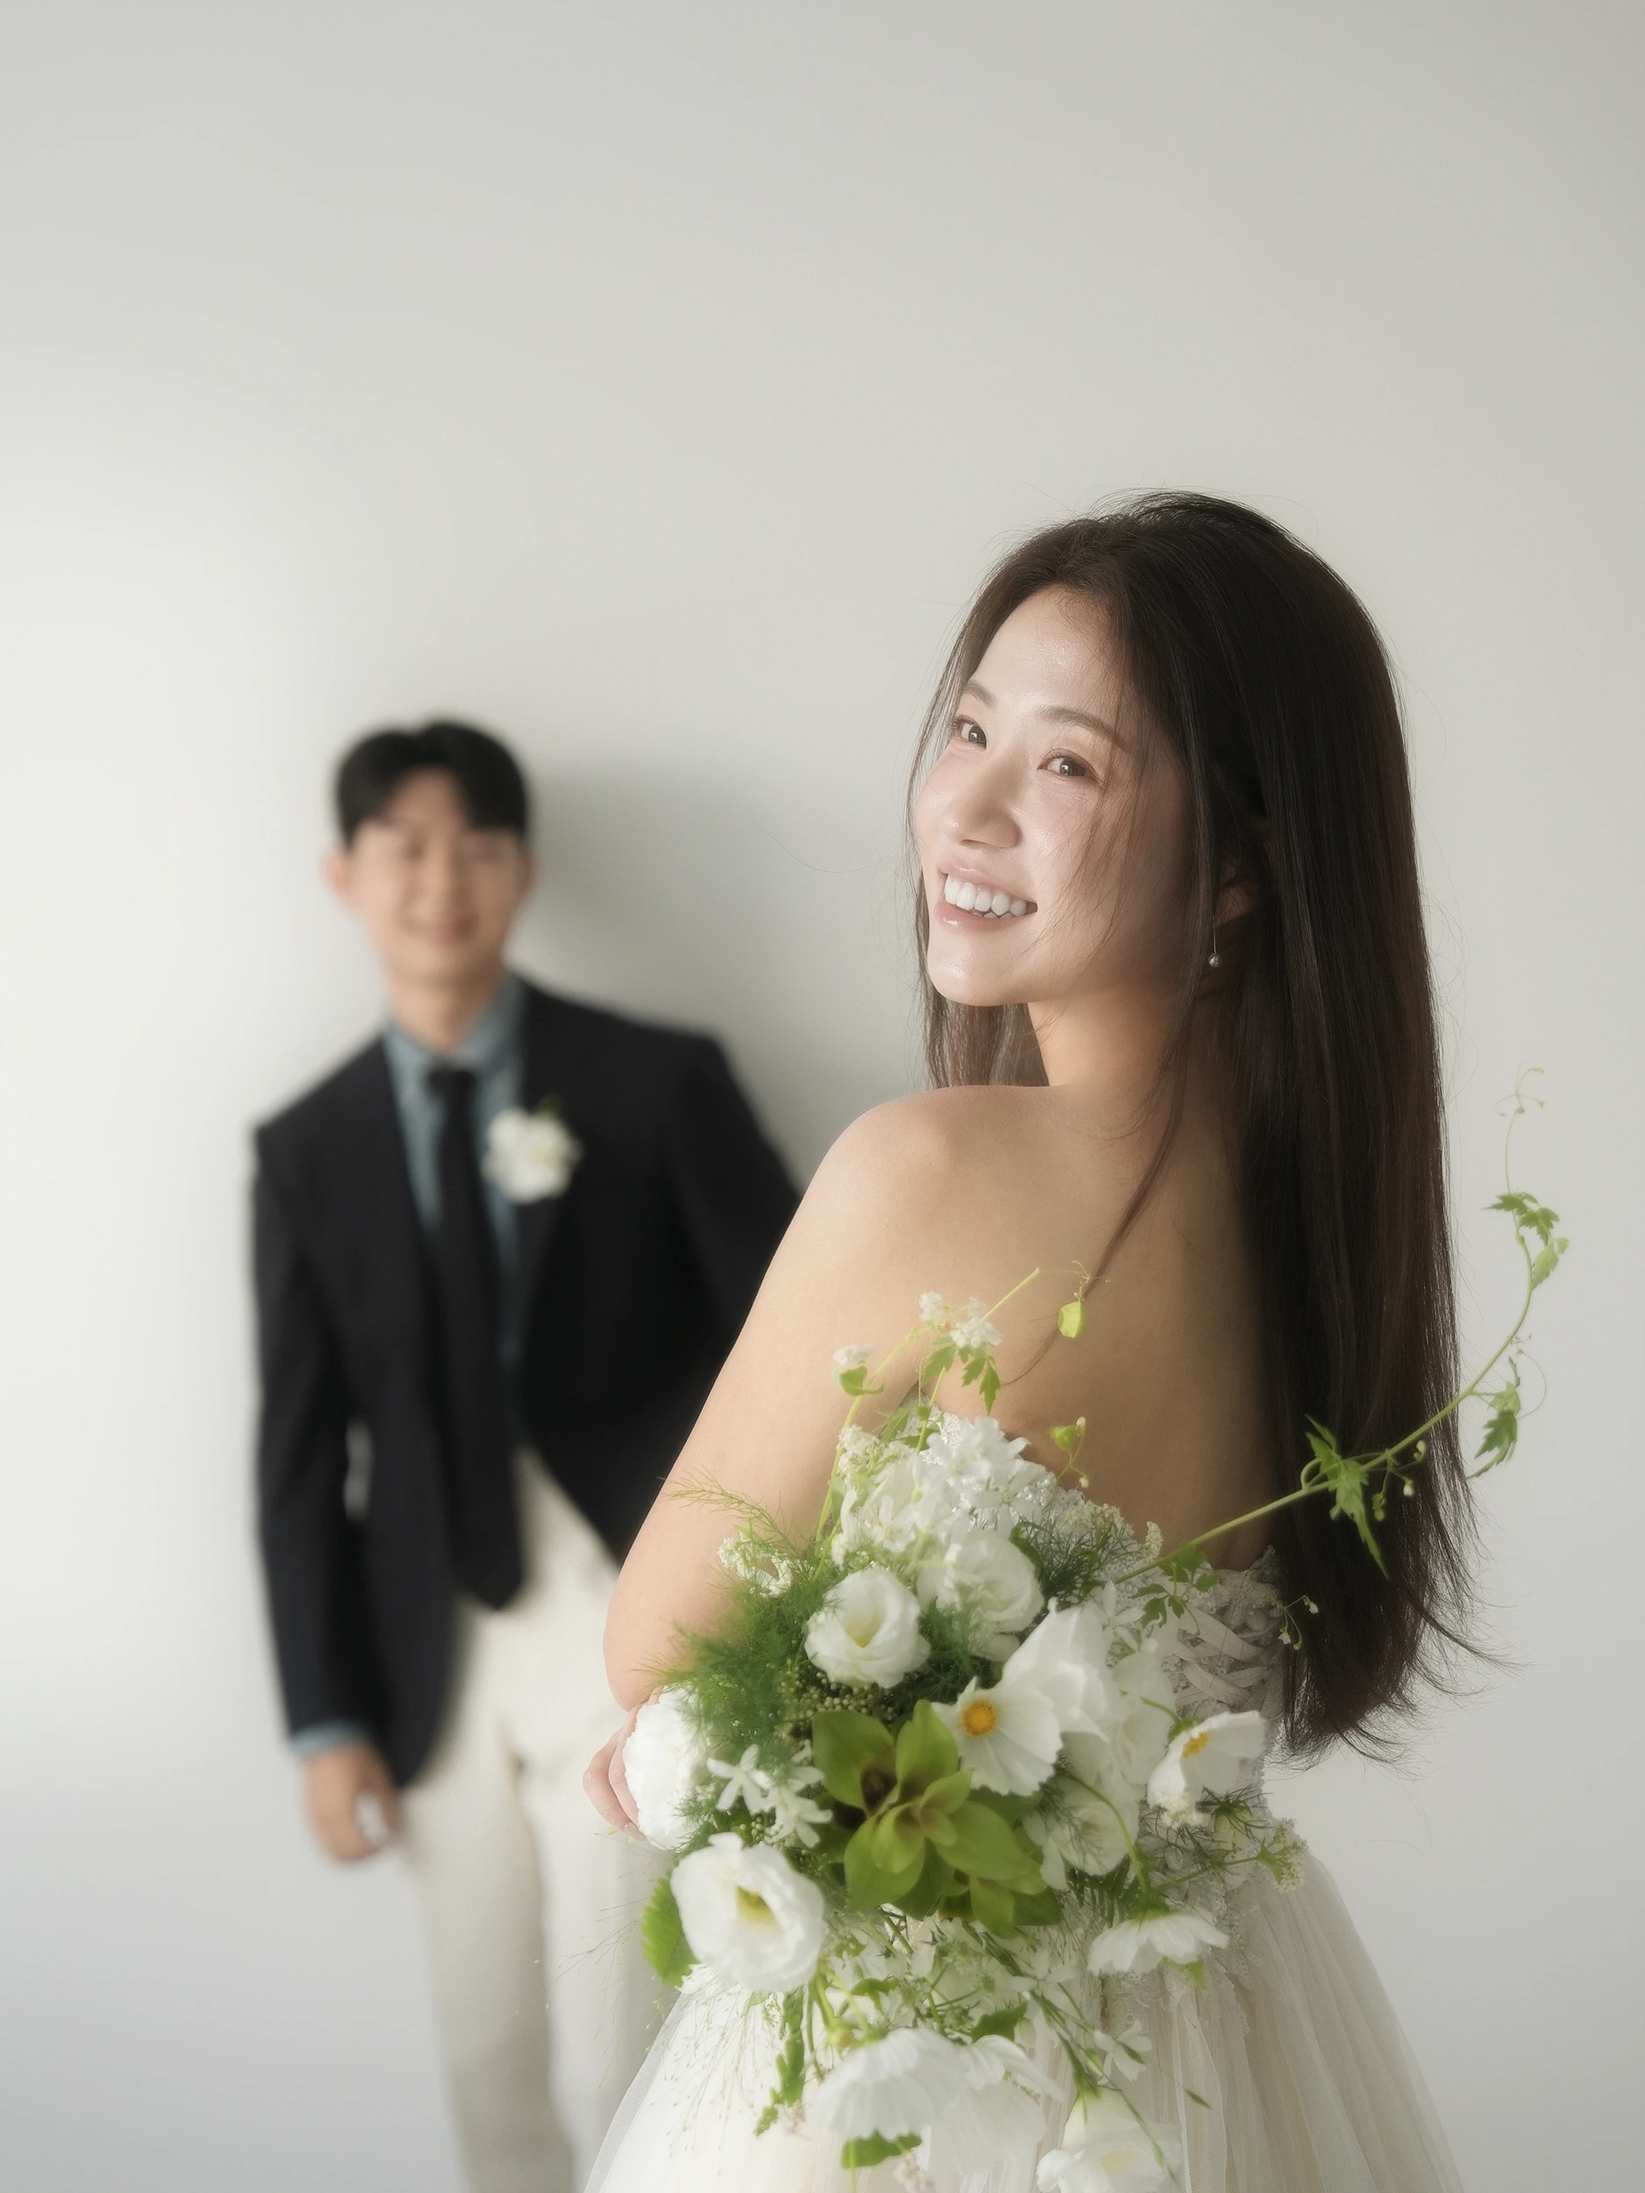
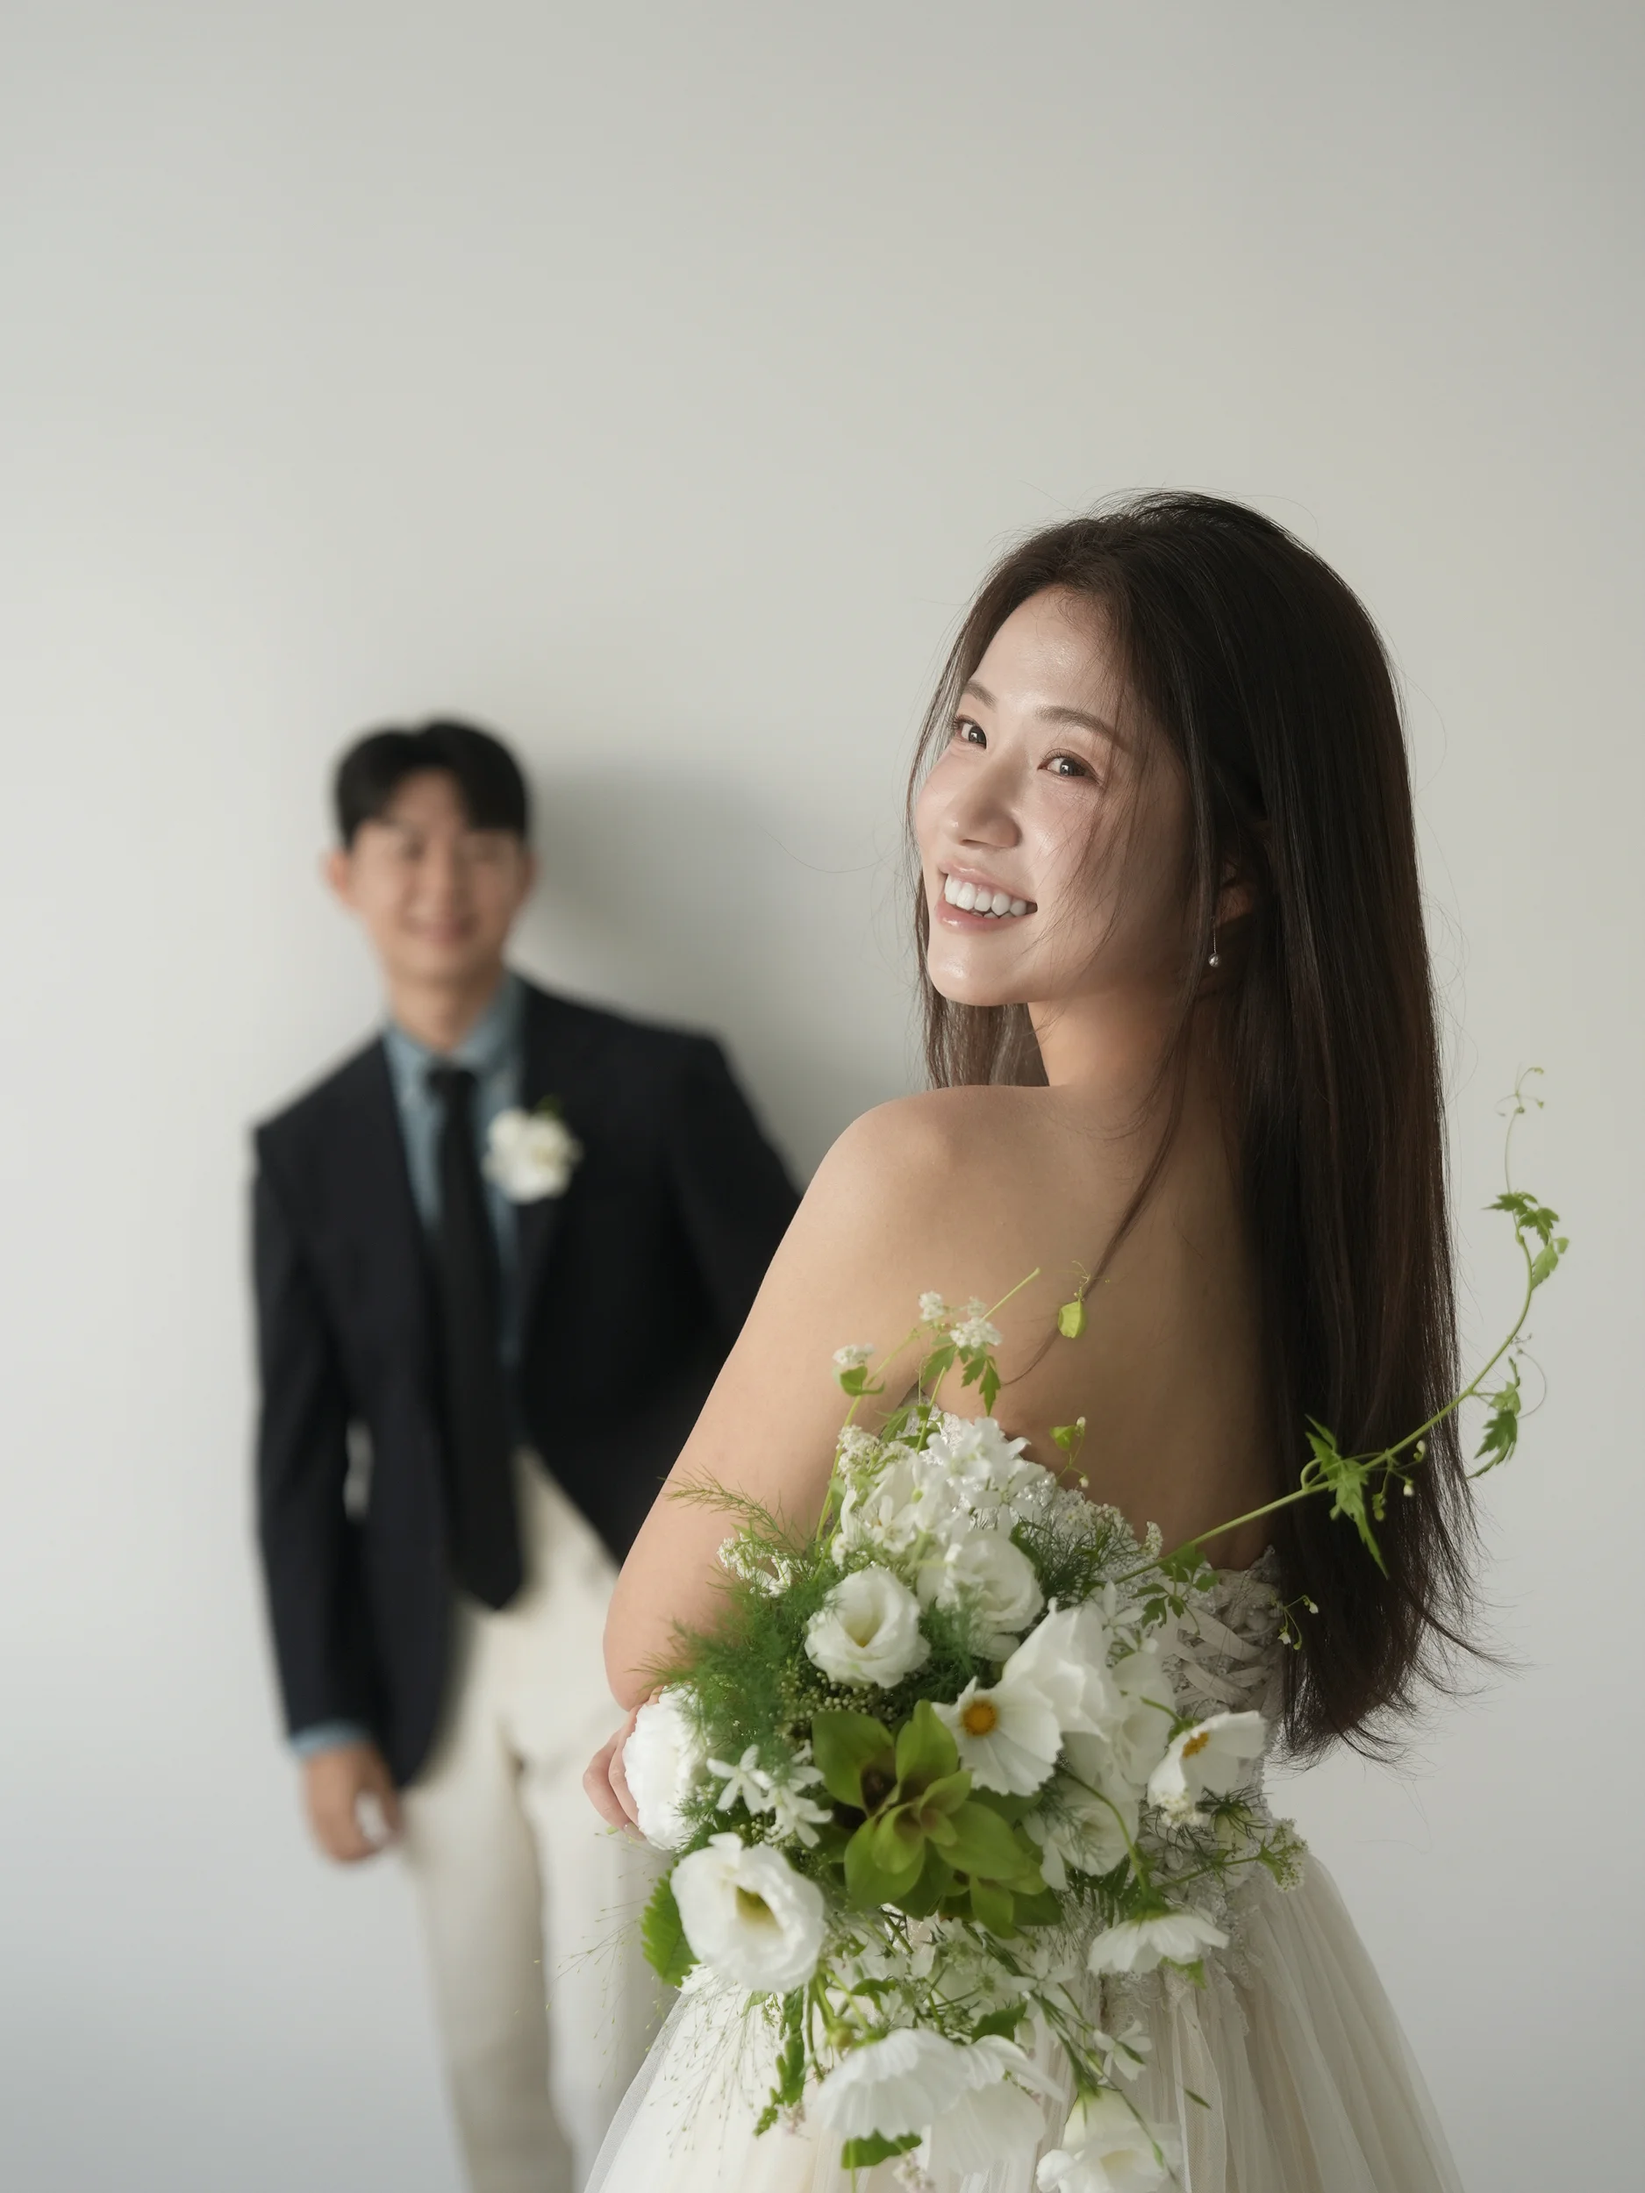
Update bride accounts, replace photos, and init Kakao SDK
- Update bride-side bank accounts (이소연, 이정구, 이승경)
- Replace page2 photos (2-1~2-3) and gallery photos (4-30, 4-31, 4-32, 4-35)
- Rename bank labels: 토스→토스뱅크, 국민→국민은행
- Add Kakao SDK initialization for KakaoTalk share

diff --git a/src/data/wedding.ts b/src/data/wedding.ts
@@ -8,7 +8,7 @@ export const weddingData = {
     motherDeceased: false,
     phone: '010-1234-5678',
     account: {
-      bank: '토스',
+      bank: '토스뱅크',
       number: '1000-1475-4322',
       holder: '성기욱',
     },
@@ -34,18 +34,18 @@ export const weddingData = {
     motherDeceased: false,
     phone: '010-9876-5432',
     account: {
-      bank: '카카오뱅크',
-      number: '3333-01-1234567',
+      bank: '토스뱅크',
+      number: '1000-1806-8037',
       holder: '이소연',
     },
     fatherAccount: {
-      bank: '우리은행',
-      number: '1002-123-456789',
+      bank: '국민은행',
+      number: '360-21-0070-525',
       holder: '이정구',
     },
     motherAccount: {
-      bank: '농협은행',
-      number: '302-1234-5678-91',
+      bank: '국민은행',
+      number: '63740201494947',
       holder: '이승경',
     },
     kakaopayUrl: 'https://qr.kakaopay.com/example-bride',

diff --git a/src/main.tsx b/src/main.tsx
@@ -2,6 +2,11 @@ import { StrictMode } from 'react'
 import { createRoot } from 'react-dom/client'
 import App from './App.tsx'
 
+// Kakao SDK 초기화
+if (window.Kakao && !window.Kakao.isInitialized()) {
+  window.Kakao.init('37175e7e179783d60a4e7e6043eeac27');
+}
+
 createRoot(document.getElementById('root')!).render(
   <StrictMode>
     <App />

diff --git a/src/components/Footer.tsx b/src/components/Footer.tsx
@@ -4,6 +4,7 @@ import { weddingData } from '../data/wedding';
 declare global {
   interface Window {
     Kakao?: {
+      init(appKey: string): void;
       isInitialized(): boolean;
       Share: {
         sendDefault(options: Record<string, unknown>): void;
